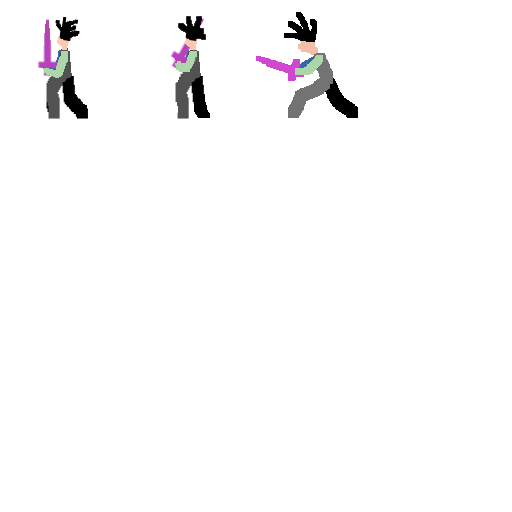
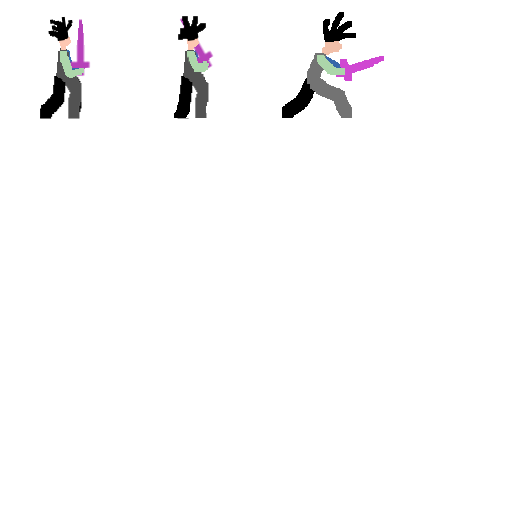
Hero image to right dir and change flipX to scale

Changed region(s): [[0.5, 0.0312, 0.75, 0.25], [0.0625, 0.0312, 0.1875, 0.25], [0.3125, 0.0312, 0.4375, 0.25]]

diff --git a/Assets/Scripts/Hero/HeroVisual.cs b/Assets/Scripts/Hero/HeroVisual.cs
@@ -10,14 +10,14 @@ public class HeroVisual : MonoBehaviour {
 	}
 
 	void Update() {
-		var h = Input.GetAxisRaw("Horizontal");
-		FlipXIfNeeded(h);
+		var horizontal = Input.GetAxisRaw("Horizontal");
+		FlipXIfNeeded(horizontal);
 	}
 
-	void FlipXIfNeeded(float h) {
-		bool isGoingRight = h > 0;
-		if (h != 0) {
-			spriteRenderer.flipX = isGoingRight;
+	void FlipXIfNeeded(float horizontal) {
+		if (horizontal != 0f) {
+			bool isGoingRight = horizontal > 0f;
+			transform.localScale = new Vector2(isGoingRight ? 1f : -1f, 1f);
 		}
 	}
 
